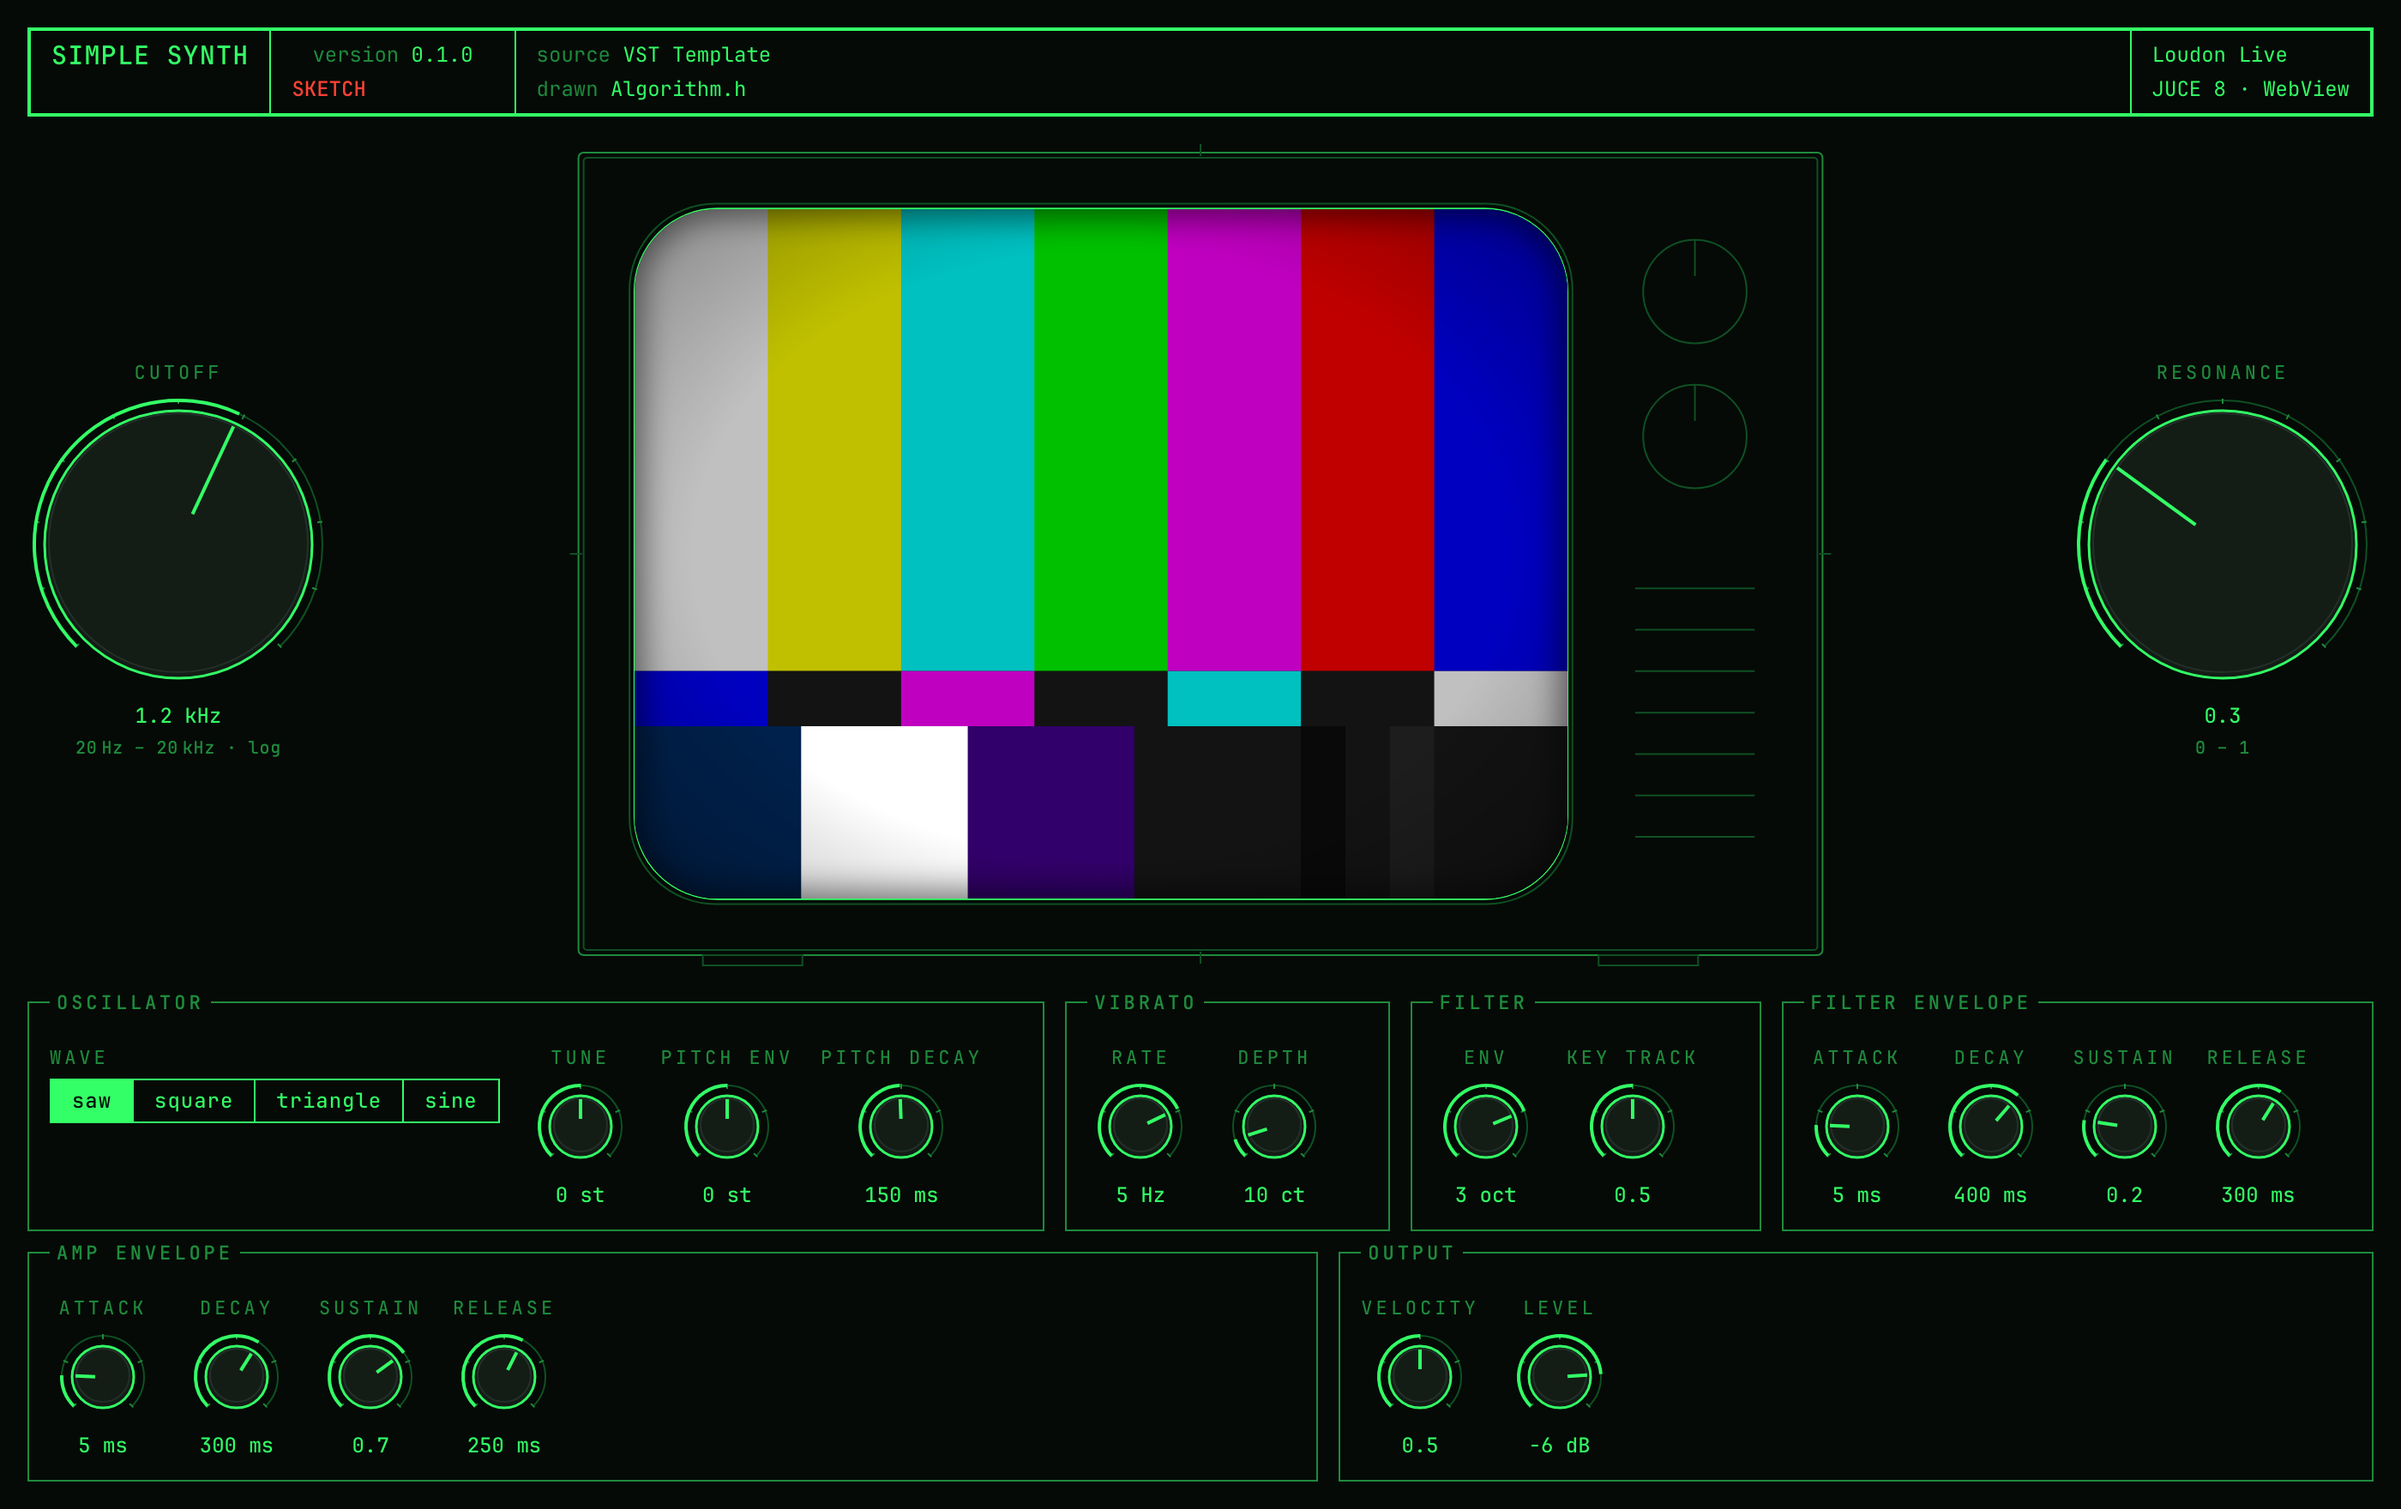
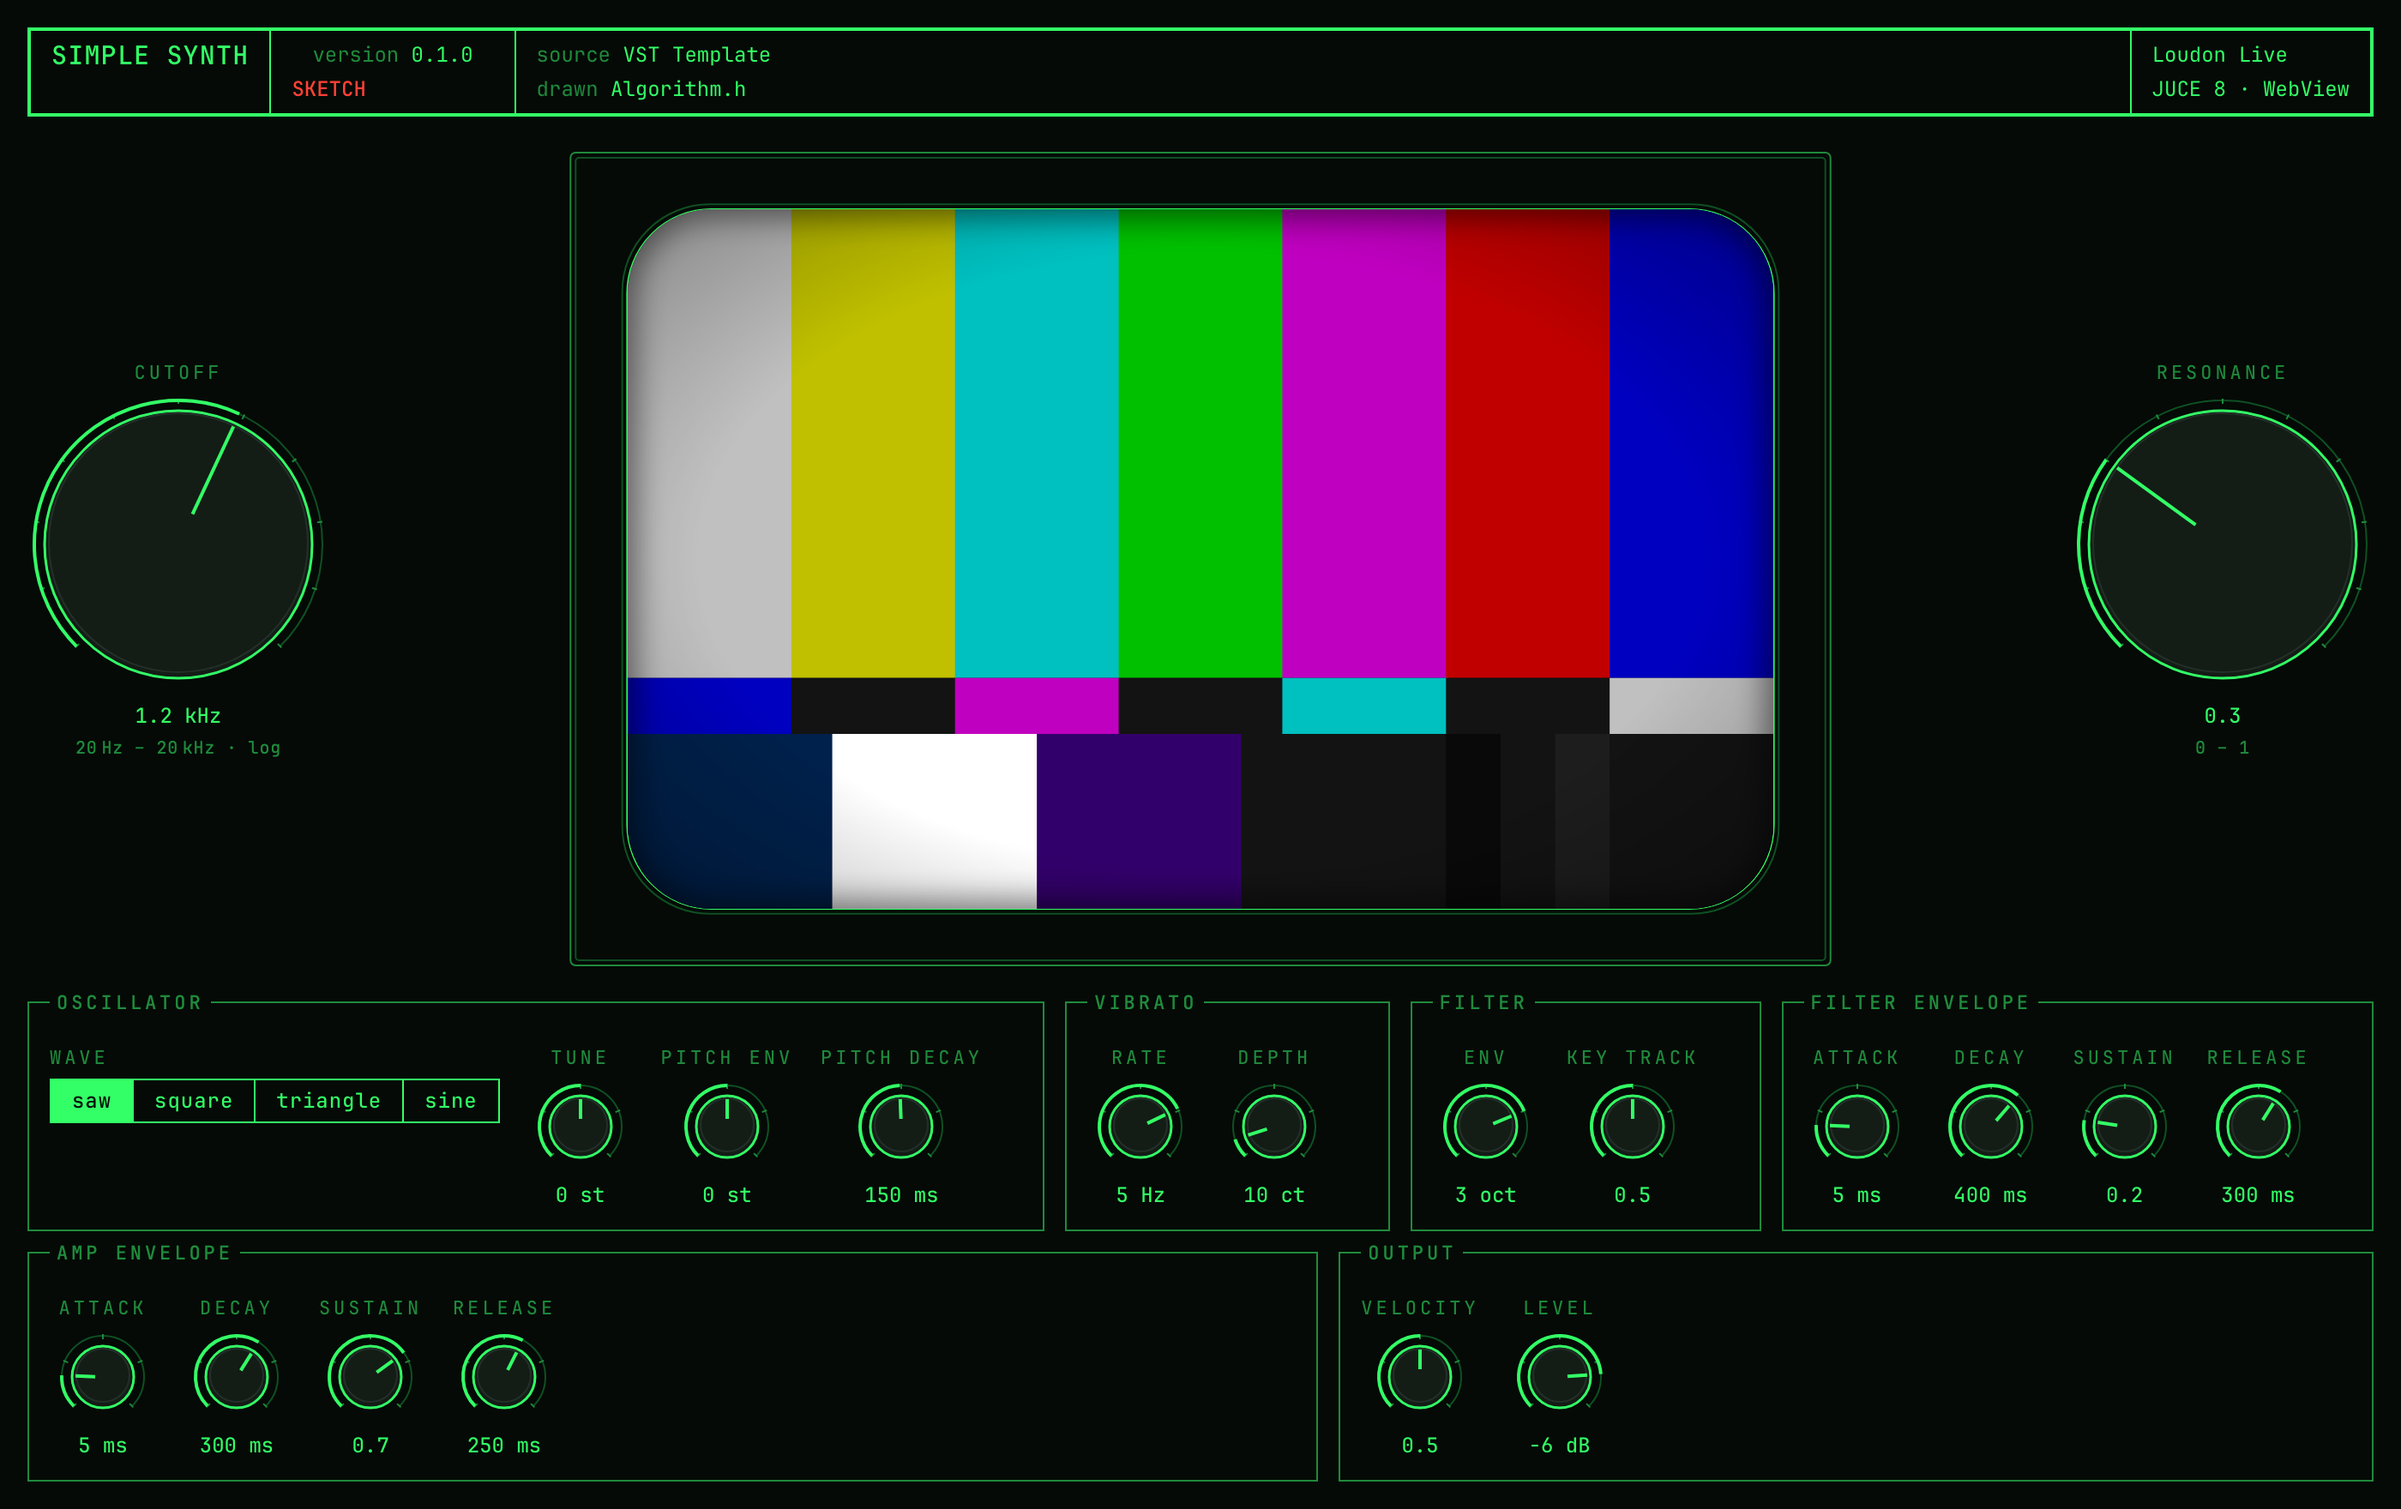
edit(VST Template): the CRT is just a bezel, on Loudon's word: no knobs, grille, feet or centre marks; controls on it are left to the build that needs them
Loudon, 2026-10-21: "On the CRT look, lets simplify even more, just a bezel and no decorative knobs or grills. We will leave it to the later build to add controls to the crt if needed". editor.html draws the bezel's outer and inner edges, the lip round the tube and the tube's rounded face, centred, about 3:2, with the vignette on the glass unchanged; the control strip, knobs, grille, feet and centre marks are gone. ui.py fit --screen passes at 920x540, 960x600 and 1600x1000. The crt-frame proof is re-rendered at its three sizes, its README says what changed, and the design standard and the recipe describe the bezel.

Palace-Kind: edit
Palace-Entry: VST Template — design standard
Palace-Entry: README
Palace-Vector: README: changed
Palace-Verify: verified
Palace-Author: claude

Changed region(s): [[0.2175, 0.125, 0.7768, 0.6562]]

diff --git a/Projects/VST Template/machinery/ui/editor.html b/Projects/VST Template/machinery/ui/editor.html
@@ -65,7 +65,7 @@
   /* ── heroes ─────────────────────────────────────────────────────────────── */
   .heroes { flex: 1; min-height: calc(var(--hero) + 64px); display: flex; gap: var(--s-8); align-items: center; justify-content: center; padding: var(--s-2) 0; }
   .heroes .ctl { --knob: var(--hero); }
-  /* ── the CRT (screen): a television drawn as an elevation around a screen the plugin owns ── */
+  /* ── the CRT (screen): a bezel drawn as an elevation around a screen the plugin owns ── */
   .heroes .screen { flex: 1 1 0; align-self: stretch; min-width: 0; position: relative; }
   .screen .casing { position: absolute; inset: 0; width: 100%; height: 100%; overflow: visible; pointer-events: none; }
   .screen .casing * { fill: none; stroke: var(--ink-3, var(--fg-3)); stroke-width: 1; vector-effect: non-scaling-stroke; }
@@ -335,12 +335,13 @@ function toggle(p) {
   return wrap;
 }
 
-// ── the CRT: a television drawn as an elevation, in the dress's ink, around a screen the plugin owns ──
+// ── the CRT: a bezel drawn as an elevation, in the dress's ink, around a screen the plugin owns ──
 // Loudon, 2026-10-21: "the look of the CRT should be a architecturally drawn frame, like a design of the
 // outside of a TV, but then we leave the inside to be anything, but there is a slight vingnette on the
-// edges." The casing and the vignette are the template's; whatever is drawn in .glass is the plugin's
-// and may break from the dress entirely. It is made once and moved into each rebuild, so what a
-// visualizer put in .glass (a canvas, its WebGL context) lives through every resize.
+// edges", and then "just a bezel and no decorative knobs or grills". The bezel and the vignette are the
+// template's; whatever is drawn in .glass is the plugin's and may break from the dress entirely. Controls
+// on the CRT, if a plugin wants them, are its own to add. It is made once and moved into each rebuild,
+// so what a visualizer put in .glass (a canvas, its WebGL context) lives through every resize.
 let SCREEN = null;
 function crt() {
   if (SCREEN) return SCREEN;
@@ -352,24 +353,15 @@ function crt() {
   const draw = () => {
     const W = el.clientWidth, H = el.clientHeight;
     if (!W || !H) return;
-    const feet = 6, cw = Math.min(W - 2, (H - feet - 2) * 1.55), ch = cw / 1.55;   // the set, about 3:2, standing on its feet
-    const x0 = (W - cw) / 2, y0 = (H - feet - ch) / 2;
-    const b = Math.max(8, ch * 0.07), strip = Math.max(22, cw * 0.16);               // bezel; the control strip on the right
-    const sx = x0 + b, sy = y0 + b, sw = cw - 2 * b - strip, sh = ch - 2 * b, r = Math.min(sw, sh) * 0.12;
-    const kx = x0 + cw - b / 2 - strip / 2, kr = Math.min(strip * 0.26, sh * 0.09);
+    const cw = Math.min(W - 2, (H - 2) * 1.55), ch = cw / 1.55;   // the bezel, about 3:2
+    const x0 = (W - cw) / 2, y0 = (H - ch) / 2, b = Math.max(8, ch * 0.07);
+    const sx = x0 + b, sy = y0 + b, sw = cw - 2 * b, sh = ch - 2 * b, r = Math.min(sw, sh) * 0.12;
     const rect = (x, y, w, h, rr, cls) => svgEl("rect", { x, y, width: w, height: h, rx: rr, class: cls || "" });
-    const line = (x1, y1, x2, y2) => svgEl("line", { x1, y1, x2, y2 });
     casing.replaceChildren(
-      rect(x0, y0, cw, ch, 3, "outline"),                                   // the cabinet
-      rect(x0 + 3, y0 + 3, cw - 6, ch - 6, 2),                              // its inner edge
-      rect(sx - 3, sy - 3, sw + 6, sh + 6, r + 2),                          // the bezel's lip
-      rect(sx, sy, sw, sh, r, "opening"),                                   // the tube's face
-      svgEl("circle", { cx: kx, cy: sy + kr * 1.6, r: kr }), line(kx, sy + kr * 0.6, kx, sy + kr * 1.3),   // two knobs, each with its pointer
-      svgEl("circle", { cx: kx, cy: sy + kr * 4.4, r: kr }), line(kx, sy + kr * 3.4, kx, sy + kr * 4.1),
-      ...Array.from({ length: 7 }, (_, i) => line(kx - strip * 0.3, sy + sh * 0.55 + i * sh * 0.06, kx + strip * 0.3, sy + sh * 0.55 + i * sh * 0.06)),   // the speaker grille
-      rect(x0 + cw * 0.1, y0 + ch, cw * 0.08, feet, 0), rect(x0 + cw * 0.82, y0 + ch, cw * 0.08, feet, 0),        // the feet
-      line(x0 + cw / 2, y0 - 5, x0 + cw / 2, y0 + 2), line(x0 + cw / 2, y0 + ch - 2, x0 + cw / 2, y0 + ch + 5),   // centre marks, as on a drawing
-      line(x0 - 5, y0 + ch / 2, x0 + 2, y0 + ch / 2), line(x0 + cw - 2, y0 + ch / 2, x0 + cw + 5, y0 + ch / 2));
+      rect(x0, y0, cw, ch, 3, "outline"),            // the bezel's outer edge
+      rect(x0 + 3, y0 + 3, cw - 6, ch - 6, 2),       // and its inner edge
+      rect(sx - 3, sy - 3, sw + 6, sh + 6, r + 2),   // the lip round the tube
+      rect(sx, sy, sw, sh, r, "opening"));           // the tube's face
     for (const e of [glass, vignette]) Object.assign(e.style, { left: sx + "px", top: sy + "px", width: sw + "px", height: sh + "px", borderRadius: r + "px" });
   };
   new ResizeObserver(draw).observe(el);   // ResizeObserver still fires where WebKit has stopped animation frames

diff --git a/Projects/VST Template/proofs/2026-10-21-crt-frame/README.md b/Projects/VST Template/proofs/2026-10-21-crt-frame/README.md
@@ -5,7 +5,7 @@ links:
   - target: "[[VST Template]]"
     type: connects-to
     label: proof-for
-forward_vector: "I hold the first drawing of the editor's CRT, the television the template draws around each plugin's own visualizer, rendered at three windows with colour bars standing in for a visualizer, so Loudon can judge the casing and the vignette before any plugin fills the glass."
+forward_vector: "I hold the drawing of the editor's CRT, the bezel the template draws around each plugin's own visualizer, rendered at three windows with colour bars standing in for a visualizer, so Loudon can judge the casing and the vignette before any plugin fills the glass."
 ---
 
 # The CRT's casing, around a stand-in
@@ -13,5 +13,7 @@ forward_vector: "I hold the first drawing of the editor's CRT, the television th
 Loudon, 2026-10-21: "the look of the CRT should be a architecturally drawn frame, like a design of the outside of a TV, but then we leave the inside to be anything, but there is a slight vingnette on the edges."
 
 Simple Synth's mock page with the CRT shown (`ui.py shot plugins/SimpleSynth --screen --size <W>x<H>`), at its minimum (920 × 540), its default (960 × 600) and a large window (1400 × 880). The colour bars are a stand-in, drawn only in the mock. They are there to show the glass carrying something that owes nothing to the dress. The casing and the vignette are what the template draws; a plugin's own visualizer will replace the bars.
+
+The first drawing was a whole television: a control strip with two knobs, a speaker grille, feet and drawing centre-marks. Loudon then asked for "just a bezel and no decorative knobs or grills. We will leave it to the later build to add controls to the crt if needed". These renders are the bezel alone.
 
 These are browser renders. The CRT is hidden in both plugins (neither sets `"screen": true`), so it has not yet been seen inside the plugin's WebKit view. The first plugin to show it will need its own editor pictures (`./plugin.sh editor`).

diff --git a/Projects/VST Template/template/README.md b/Projects/VST Template/template/README.md
@@ -54,7 +54,7 @@ To see the real editor, run `./plugin.sh editor` after `install`. The host check
 
 To check that the editor fits its window, run `python3 machinery/tools/ui.py fit plugins/<Name>`. It tries the minimum, default and maximum from `plugin.json` (or each `--size`) and exits 1 if the panels overflow at any of them. A plugin with many controls needs a larger `min`: Simple Synth's 20 controls under two heroes fit nothing smaller than 920 × 540. Find the size with a few `--size` values, then set it.
 
-**The CRT, and where its feed would hook in.** The editor keeps a screen between the heroes for a plugin's own visualizer: a television drawn in the dress's ink, with whatever the plugin likes inside (design standard § The CRT). `"screen": true` in the `ui` block shows it, and a visualizer draws into `window.editorScreen`. Nothing feeds it yet. The probes are the natural feed:
+**The CRT, and where its feed would hook in.** The editor keeps a screen between the heroes for a plugin's own visualizer: a bezel drawn in the dress's ink, with whatever the plugin likes inside (design standard § The CRT). `"screen": true` in the `ui` block shows it, and a visualizer draws into `window.editorScreen`. Nothing feeds it yet. The probes are the natural feed:
 - Each `step` already leaves its latest values in `alg.probes`, and `processBlock` copies them out only for the harness (`machinery/src/PluginProcessor.cpp:192`).
 - A live feed would copy them once per block, on the audio thread, into a `std::array<std::atomic<float>, algo::kNumProbes>` on the processor. Nothing on that thread waits or allocates.
 - The editor (`machinery/src/PluginEditor.cpp`) would read that array on a 60 Hz `juce::Timer` and send it with `web->emitEventIfBrowserIsVisible ("probes", …)`.

diff --git a/Projects/VST Template/VST Template — design standard.md b/Projects/VST Template/VST Template — design standard.md
@@ -93,7 +93,7 @@ Loudon, 2026-10-21: "the look of the CRT should be a architecturally drawn frame
 A plugin's own visualizer plays on a screen in the middle of its editor. The template draws the set; the plugin owns the picture.
 
 - **Where:** between the two heroes, in the bench direction. It sits in the row that already takes the window's spare height and stretches into that row's spare width, so showing it moves nothing else and the editor still fits at every size. In the edge direction the pad is the centre, and there is no CRT.
-- **The casing:** a television drawn as an elevation, in the dress's ink. The cabinet and its inner edge, the bezel's lip, the rounded face of the tube, two knobs, a speaker grille, the feet, and centre marks as on a drawing. It is redrawn to whatever space it has.
+- **The casing:** just a bezel, drawn as an elevation in the dress's ink: its outer and inner edges, the lip round the tube, and the tube's rounded face. It is redrawn to whatever space it has. Loudon, later the same day: "just a bezel and no decorative knobs or grills. We will leave it to the later build to add controls to the crt if needed". Controls on the CRT, if a plugin wants them, are its own to add.
 - **The glass:** `#screen .glass`, also reachable as `window.editorScreen`. It is black until the plugin draws, and anything goes in it: a canvas, WebGL, three.js, any colour at all.
 - **The vignette:** a slight darkening at the glass's edges, laid over whatever the plugin draws.
 - **It lives through rebuilds.** The screen is made once and moved into each rebuild, so a visualizer's canvas and its WebGL context survive every resize.
